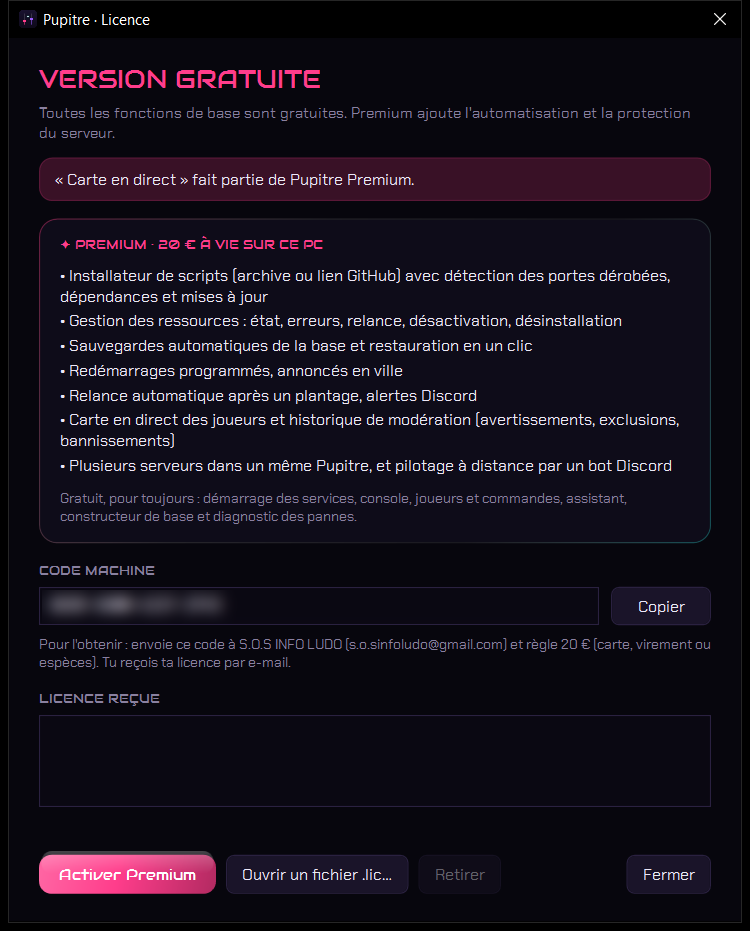
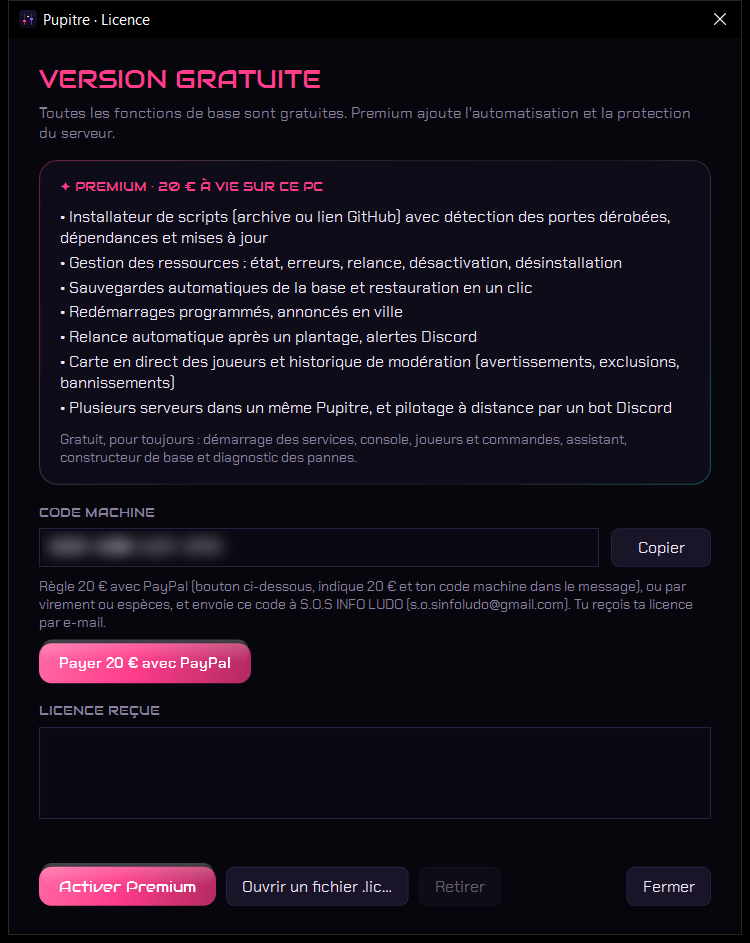
Pupitre 2.0.2 : paiement PayPal

diff --git a/README.md b/README.md
@@ -10,10 +10,10 @@
 
 <br>
 
-[![Télécharger](https://img.shields.io/badge/⬇_Télécharger-version_2.0.1-FF3D8B?style=for-the-badge&labelColor=12101C)](https://github.com/lerapeurdu62280-debug/Pupitre-Download/releases/latest)
+[![Télécharger](https://img.shields.io/badge/⬇_Télécharger-version_2.0.2-FF3D8B?style=for-the-badge&labelColor=12101C)](https://github.com/lerapeurdu62280-debug/Pupitre-Download/releases/latest)
 [![Windows](https://img.shields.io/badge/Windows-10%20%2F%2011-0078D6?style=for-the-badge&logo=windows&logoColor=white)](#%EF%B8%8F-configuration-requise)
 [![Gratuit](https://img.shields.io/badge/Gratuit-pour_toujours-3DDC97?style=for-the-badge&labelColor=12101C)](#-gratuit-ou-premium-)
-[![Premium](https://img.shields.io/badge/✦_Premium-20_€_à_vie-FF3D8B?style=for-the-badge&labelColor=12101C)](#-gratuit-ou-premium-)
+[![Premium](https://img.shields.io/badge/✦_Premium-20_€_à_vie-FF3D8B?style=for-the-badge&labelColor=12101C)](https://www.paypal.com/biz/profile/SOSinfoludo)
 [![Discord](https://img.shields.io/badge/Discord-rejoindre_l%E2%80%99atelier-5865F2?style=for-the-badge&logo=discord&logoColor=white&labelColor=12101C)](https://discord.gg/W5hd36CW6b)
 
 <br>
@@ -129,9 +129,11 @@ Tout ce qui sert à **faire tourner** le serveur reste **gratuit, pour toujours*
 
 ### Obtenir Premium · 20 €
 
+<p align="center"><a href="https://www.paypal.com/biz/profile/SOSinfoludo"><img src="https://img.shields.io/badge/💳_Payer_20_€-avec_PayPal-0070BA?style=for-the-badge&logo=paypal&logoColor=white&labelColor=12101C" alt="Payer 20 € avec PayPal"></a></p>
+
 1. Dans Pupitre, cliquez sur **Version gratuite** (en haut à droite), puis sur **Copier** à côté de votre **code machine**.
 2. Envoyez ce code à **S.O.S INFO LUDO** : ✉ **s.o.sinfoludo@gmail.com** · 💬 **[Discord](https://discord.gg/W5hd36CW6b)**.
-3. Réglez **20 €** : par **carte bancaire**, par **virement**, ou en **espèces** à l'atelier de Boulogne-sur-Mer.
+3. Réglez **20 €** : avec **[PayPal](https://www.paypal.com/biz/profile/SOSinfoludo)** (indiquez 20 € et votre code machine dans le message), par **virement**, ou en **espèces** à l'atelier de Boulogne-sur-Mer. Le bouton **Payer 20 € avec PayPal** est aussi dans la fenêtre Licence de Pupitre.
 4. Vous recevez votre licence par e-mail : collez-la dans la fenêtre **Licence** (ou ouvrez le fichier `.lic`), puis cliquez sur **Activer Premium**.
 
 > La licence est vérifiée **sur votre PC, sans connexion Internet**, et reste valable à vie sur cet ordinateur. Micro-entreprise : TVA non applicable, article 293 B du CGI.
